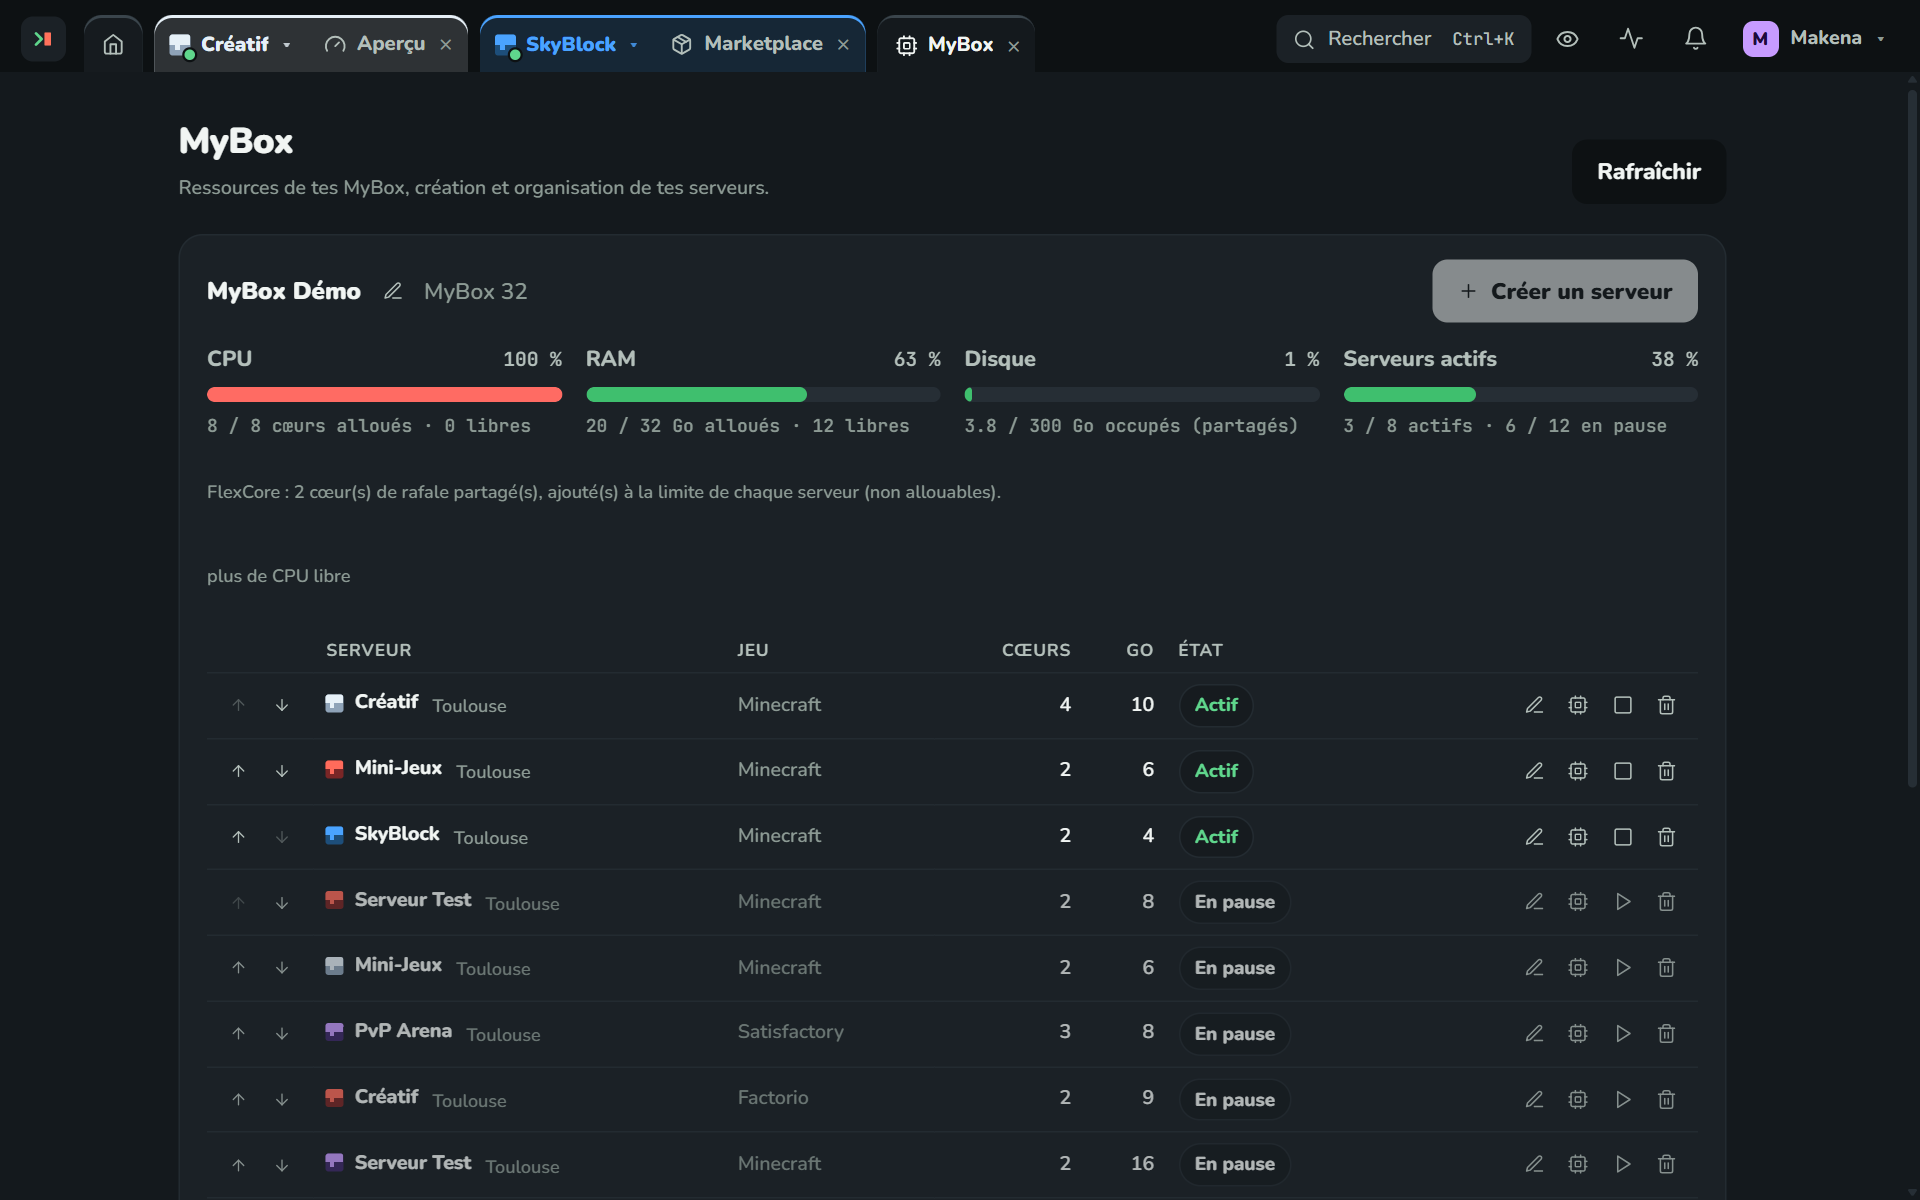
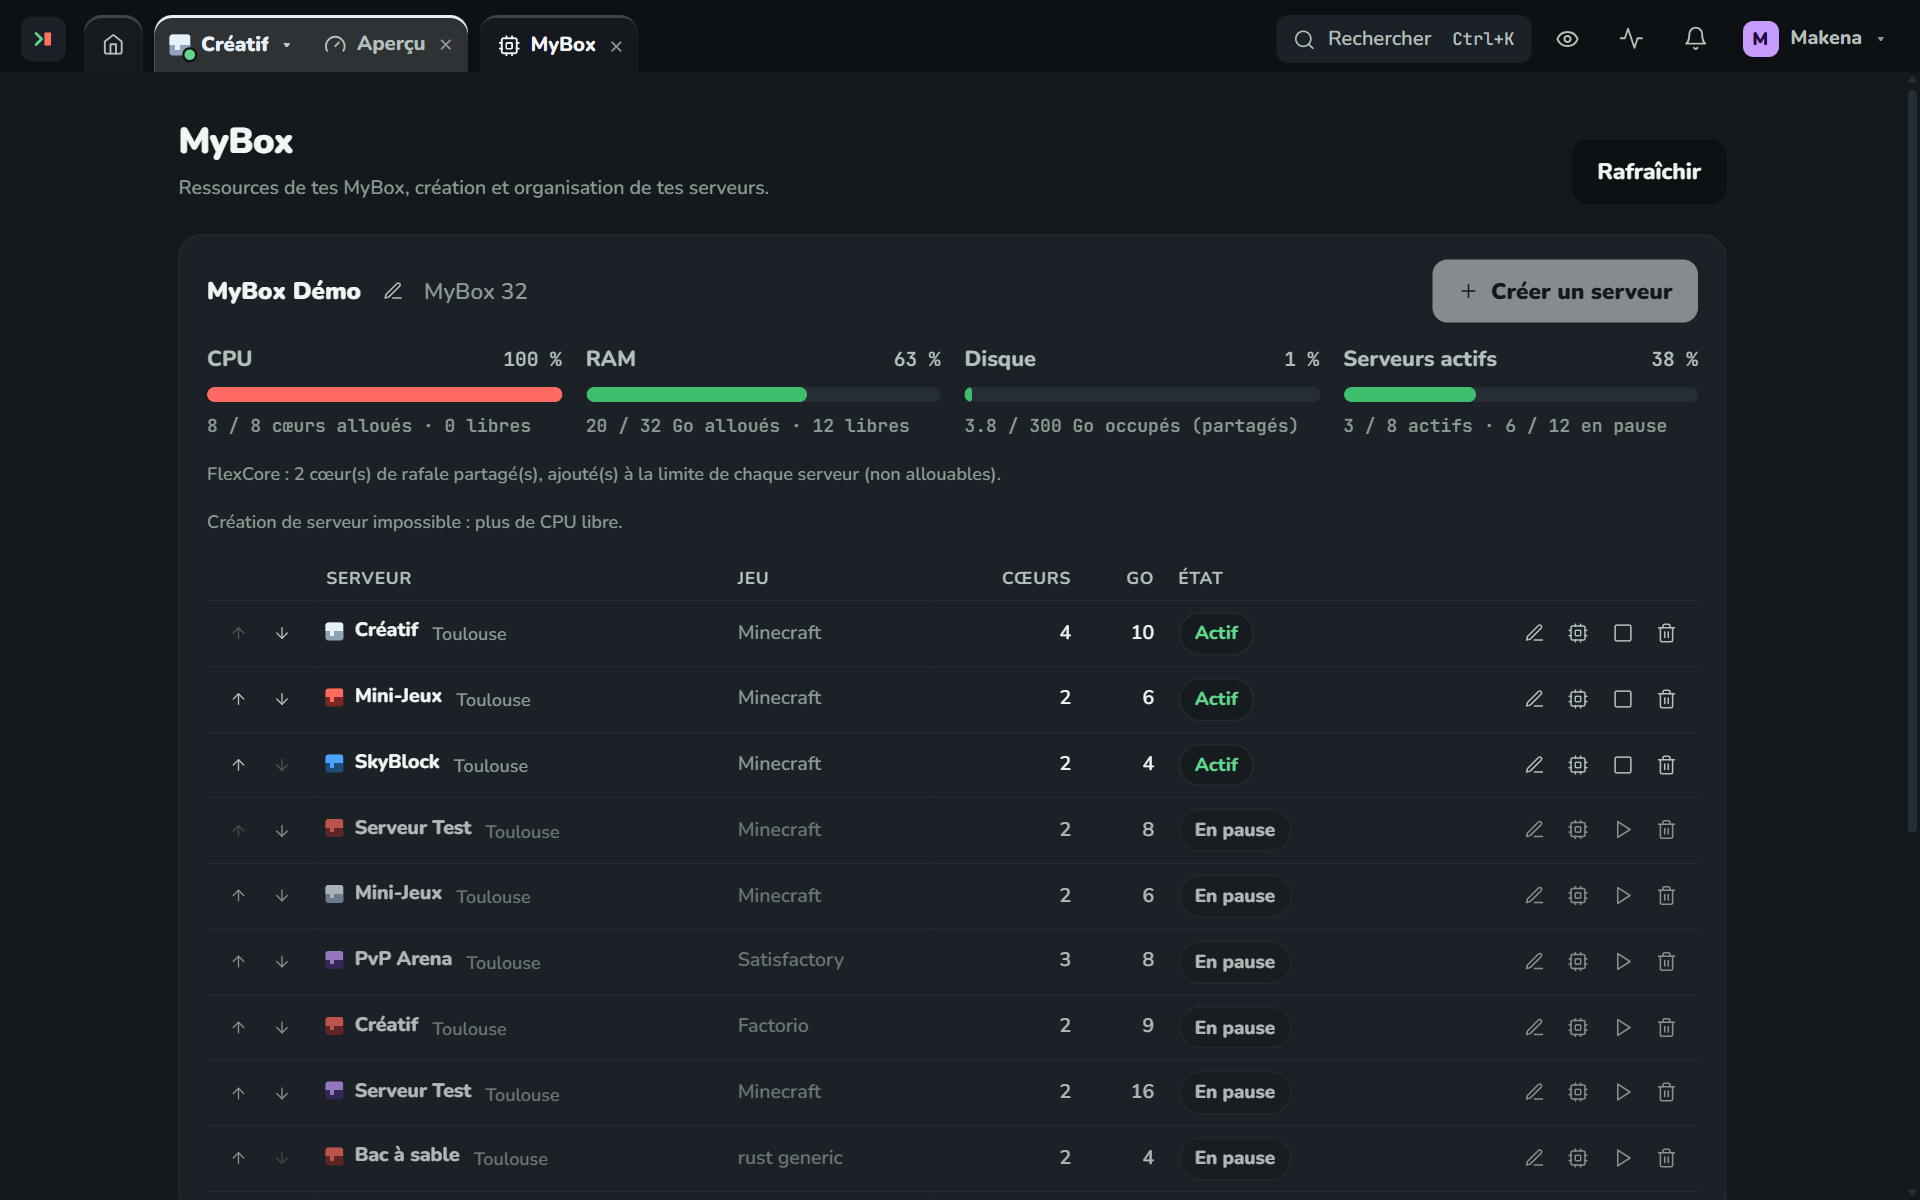
docs(readme) : vue Réseau dans la galerie, capture MyBox corrigée
- Deux captures de la vue Réseau : proxy Velocity relié à deux serveurs (ping, transfert
  moderne, aucun problème) et problèmes relevés sur une configuration par défaut. Réseau de test
  monté avec l'assistant « Relier des serveurs », puis défait par l'annulation des modifications.
- Capture MyBox reprise après correction de la ligne d'aide.
- Guide des captures : méthode pour la vue Réseau, noms fictifs en double du mode démo.

diff --git a/docs/screenshots/README.md b/docs/screenshots/README.md
@@ -7,6 +7,8 @@ pour les remplacer.
 |---|---|
 | `desktop-home.png` | Desktop — accueil, serveurs de chaque MyBox avec leur biome |
 | `desktop-overview.png` | Desktop — tableau de bord d'un serveur |
+| `desktop-network.png` | Desktop — vue Réseau, proxy relié à deux serveurs |
+| `desktop-network-problems.png` | Desktop — vue Réseau, problèmes d'une configuration par défaut |
 | `desktop-console.png` | Desktop — console temps réel |
 | `desktop-sftp.png` | Desktop — fichiers SFTP et éditeur intégré |
 | `desktop-marketplace.png` | Desktop — marketplace et mises à jour des plugins |
@@ -29,5 +31,9 @@ pour les remplacer.
   ```bash
   adb exec-out screencap -p > docs/screenshots/mobile-console.png
   ```
+- **Vue Réseau** : il faut un proxy actif. Capture faite sur un réseau de test monté avec
+  l'assistant « Relier des serveurs » (proxy et serveurs de test), puis défait par Réglages → MCP →
+  Modifications des agents. Attention : en mode démo, deux serveurs peuvent recevoir le même nom
+  fictif ; pour cocher des serveurs dans un assistant, repère-les avec les vrais noms.
 - Le badge « Données de démo » peut être masqué pour la capture ; la mention sous la galerie du
   README signale que les données sont fictives.

diff --git a/README.md b/README.md
@@ -24,6 +24,10 @@ Client **desktop et Android** pour piloter ses serveurs de jeu (**Minecraft, Sat
     <td width="50%"><img src="docs/screenshots/desktop-overview.png" alt="Tableau de bord d'un serveur" /><br/><sub>Tableau de bord d'un serveur</sub></td>
   </tr>
   <tr>
+    <td width="50%"><img src="docs/screenshots/desktop-network.png" alt="Vue Réseau : un proxy Velocity relié à deux serveurs" /><br/><sub>Réseau : proxy Velocity relié, ping et transfert vérifiés</sub></td>
+    <td width="50%"><img src="docs/screenshots/desktop-network-problems.png" alt="Vue Réseau : problèmes détectés sur une configuration par défaut" /><br/><sub>Problèmes détectés, avec leur correction</sub></td>
+  </tr>
+  <tr>
     <td width="50%"><img src="docs/screenshots/desktop-console.png" alt="Console temps réel" /><br/><sub>Console temps réel, filtres par niveau</sub></td>
     <td width="50%"><img src="docs/screenshots/desktop-sftp.png" alt="Éditeur de fichiers intégré" /><br/><sub>Fichiers SFTP et éditeur intégré</sub></td>
   </tr>
